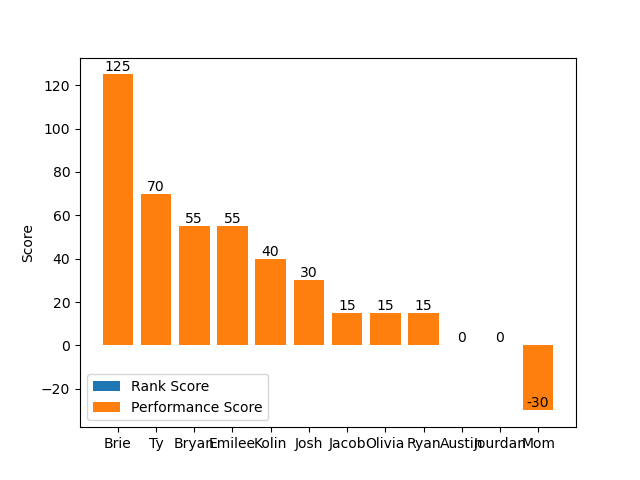
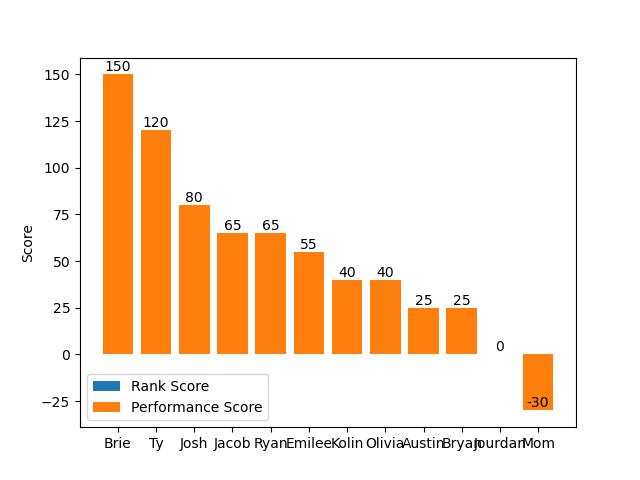
Update the site

diff --git a/seasons/18/index.md b/seasons/18/index.md
@@ -50,6 +50,8 @@ Each week, you gain or lose points when the following things happen to your team
 
 Points have 2 times greater value for your captain.
 
+The Tops and Bottoms of the week are determined based on who gets critiqued. This is usually six queens, but near the end of the show it will be fewer.
+
 In a lip sync smackdown, points are earned each time a queen wins a lip sync, but no points are deducted for a queen being eliminated from the bracket.
 
 ### Ranks
@@ -113,11 +115,11 @@ This is how everybody ranked the queens this season:
 
 Here's how everybody is doing overall this season:
 
-|                   |   Brie |   Ty |   Bryan |   Emilee |   Kolin |   Josh |   Jacob |   Olivia |   Ryan |   Austin |   Jourdan |   Mom |
-|:------------------|-------:|-----:|--------:|---------:|--------:|-------:|--------:|---------:|-------:|---------:|----------:|------:|
-| Performance Score |    125 |   70 |      55 |       55 |      40 |     30 |      15 |       15 |     15 |        0 |         0 |   -30 |
-| Rank Score        |      0 |    0 |       0 |        0 |       0 |      0 |       0 |        0 |      0 |        0 |         0 |     0 |
-| Total Score       |    125 |   70 |      55 |       55 |      40 |     30 |      15 |       15 |     15 |        0 |         0 |   -30 |
+|                   |   Brie |   Ty |   Josh |   Jacob |   Ryan |   Emilee |   Kolin |   Olivia |   Austin |   Bryan |   Jourdan |   Mom |
+|:------------------|-------:|-----:|-------:|--------:|-------:|---------:|--------:|---------:|---------:|--------:|----------:|------:|
+| Performance Score |    150 |  120 |     80 |      65 |     65 |       55 |      40 |       40 |       25 |      25 |         0 |   -30 |
+| Rank Score        |      0 |    0 |      0 |       0 |      0 |        0 |       0 |        0 |        0 |       0 |         0 |     0 |
+| Total Score       |    150 |  120 |     80 |      65 |     65 |       55 |      40 |       40 |       25 |      25 |         0 |   -30 |
 
 ![Total Scores](plots/total_scores.png)
 

diff --git a/seasons/17/index.md b/seasons/17/index.md
@@ -50,6 +50,8 @@ Each week, you gain or lose points when the following things happen to your team
 
 Points have 2 times greater value for your captain.
 
+The Tops and Bottoms of the week are determined based on who gets critiqued. This is usually six queens, but near the end of the show it will be fewer.
+
 In a lip sync smackdown, points are earned each time a queen wins a lip sync, but no points are deducted for a queen being eliminated from the bracket.
 
 ### Ranks
